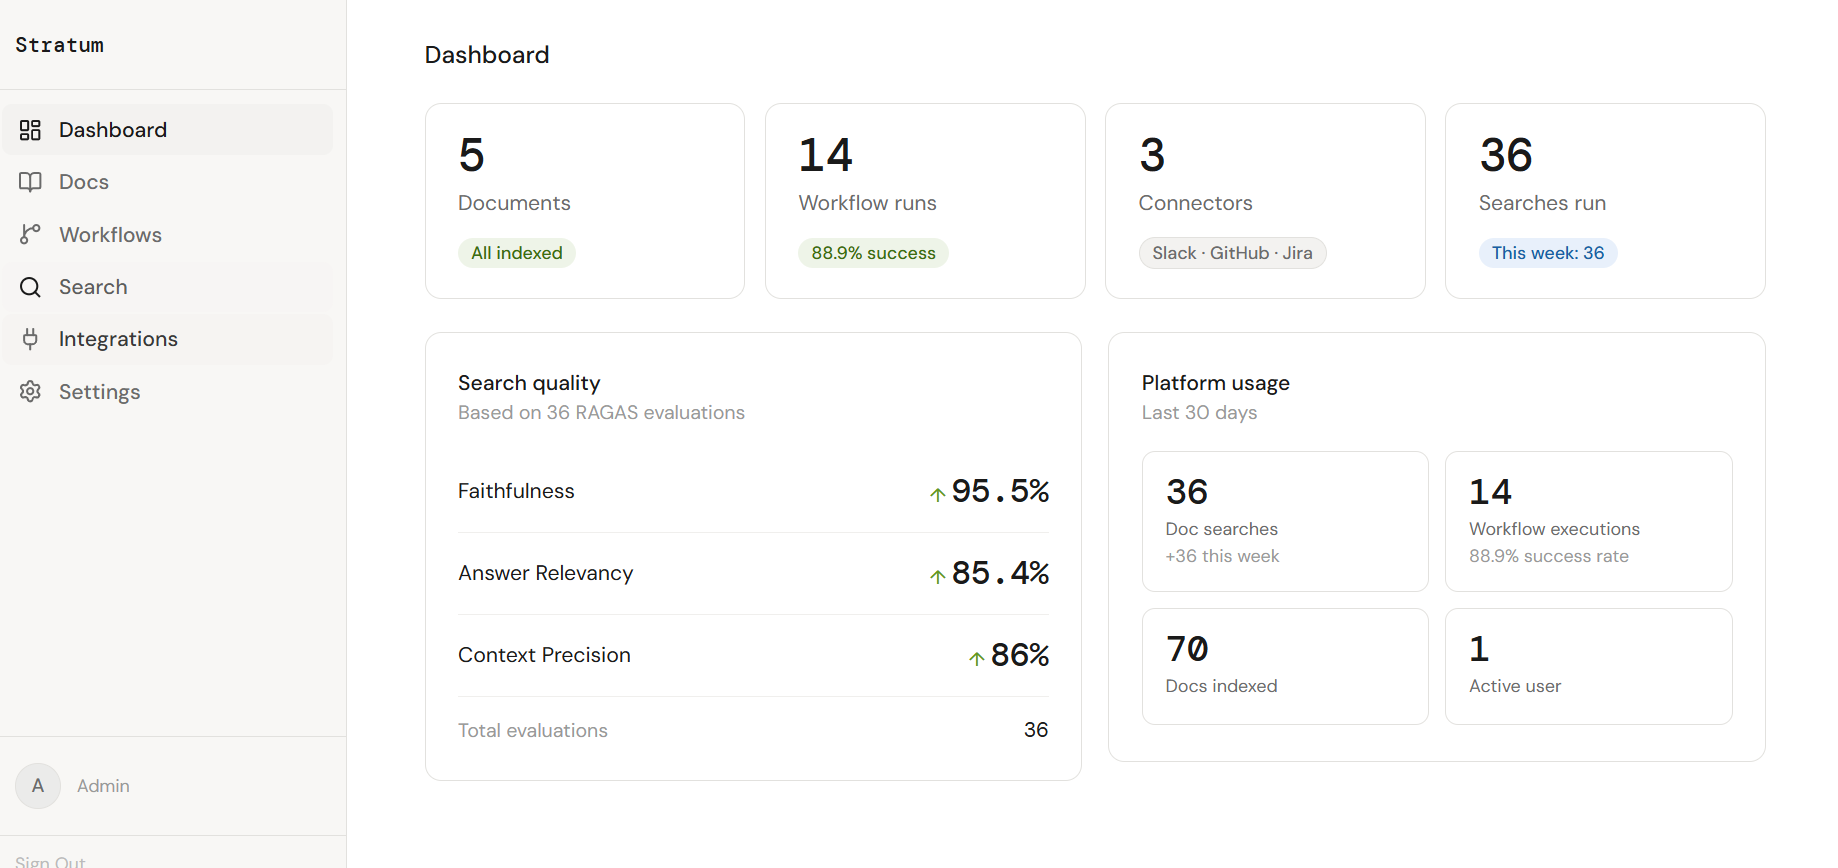
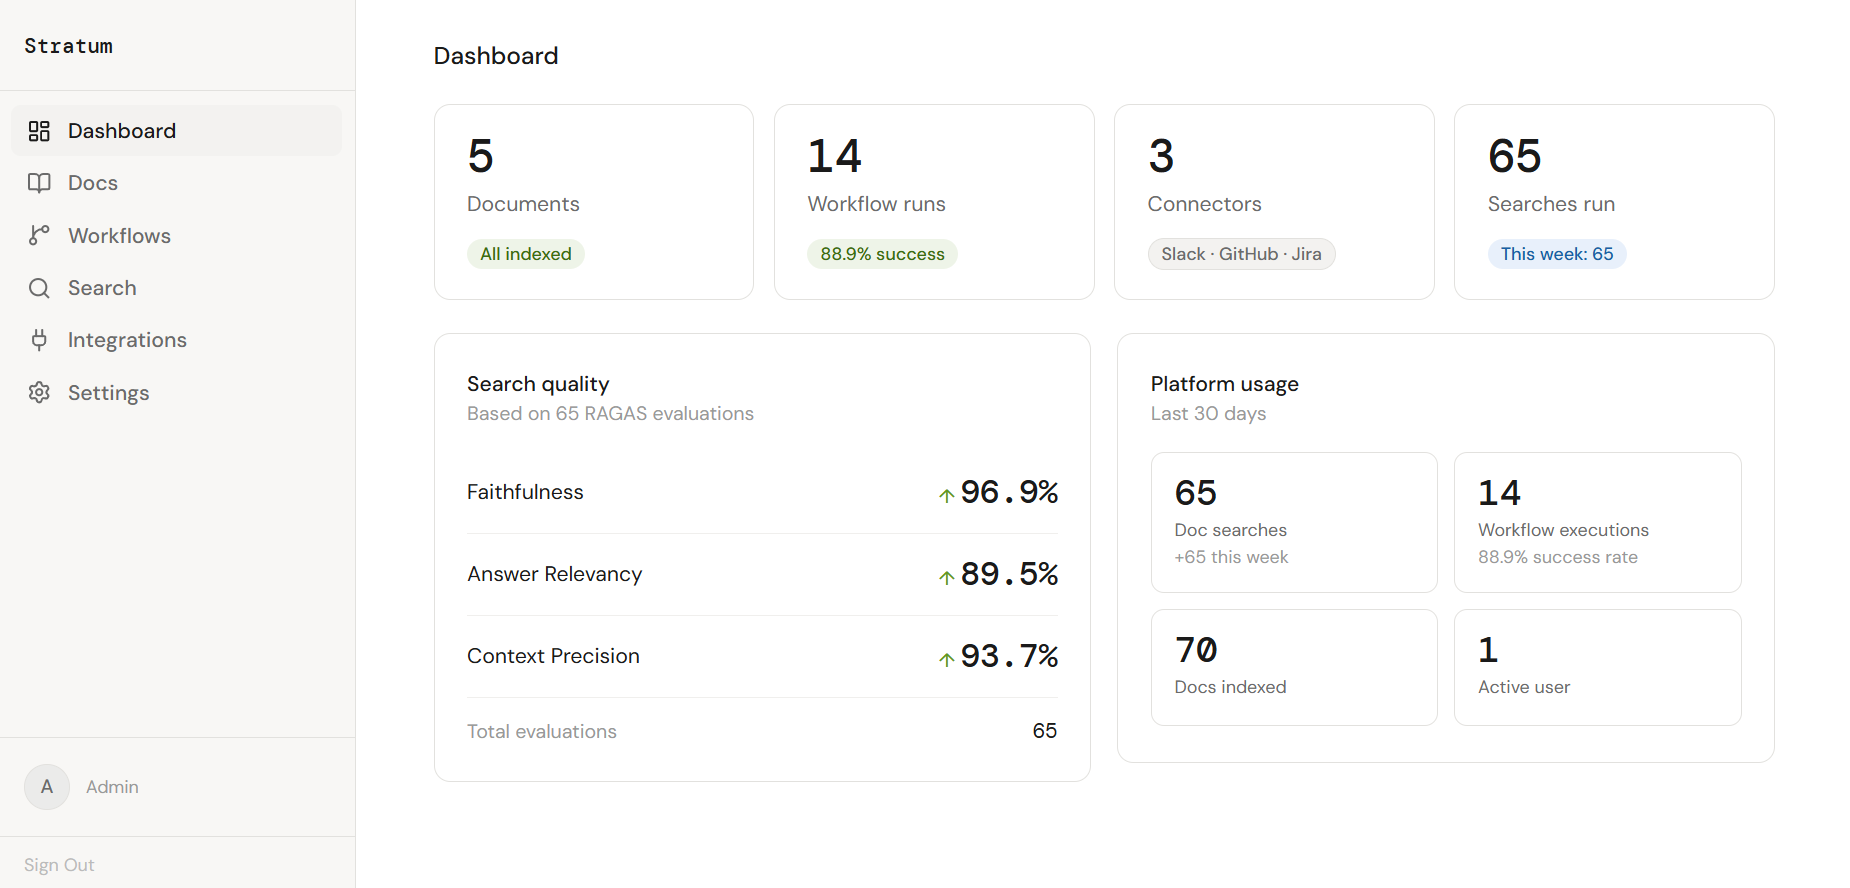
finalize README with screenshots and benchmarks

diff --git a/README.md b/README.md
@@ -1,12 +1,12 @@
 # Stratum
 
-Stratum is a platform for running AI on top of your organization's documents and data. You connect your sources (files, Slack, Jira, GitHub), and Stratum handles ingestion, search, and answer generation — with every response validated against the source material before it reaches the user.
-
-Each tenant's data is fully isolated. All search results are scored automatically using RAGAS so quality regressions are visible before they become user problems.
+Stratum is a multi-tenant AI knowledge platform that lets teams search across internal documentation and connected tools such as Slack, GitHub, and Jira using natural language. It ingests content, indexes it for hybrid retrieval, generates grounded answers, and continuously evaluates retrieval quality using RAGAS so retrieval regressions can be detected before they affect users.
 
 ---
 
 ## Screenshots
+
+
 
 <p align="center">
   <img src="docs/screenshots/dashboard.png" width="49%" />
@@ -23,7 +23,20 @@ Each tenant's data is fully isolated. All search results are scored automaticall
 
 ---
 
-## Features
+## Benchmarks
+
+Evaluated on 30 benchmark queries across five internal documents.
+
+```
+Overall RAGAS .......... 0.88
+Faithfulness ........... 1.00
+Answer Relevancy ....... 0.83
+Context Precision ...... 1.00
+```
+
+---
+
+## Highlights
 
 - Upload documents (PDF, DOCX, code) or connect Slack, Jira, and GitHub — ingestion runs in the background
 - Hybrid search combining dense vector similarity and BM25 keyword matching, fused with RRF
@@ -38,9 +51,19 @@ Each tenant's data is fully isolated. All search results are scored automaticall
 
 ---
 
+## Use Cases
+
+- Search internal engineering documentation
+- Ask questions across company knowledge bases
+- Build AI workflows on top of enterprise documents
+- Connect Slack, GitHub, and Jira as knowledge sources
+- Monitor retrieval quality with continuous RAGAS evaluation
+
+---
+
 ## Architecture
 
-Eight FastAPI services communicate through the gateway (synchronous HTTP) or Redis Streams (async events). No service imports another's code — the gateway is the only internet-facing entry point.
+Stratum follows a service-oriented architecture. The API gateway is the only public entry point; internal services communicate over HTTP for synchronous requests and Redis Streams for asynchronous events. Each service owns its data and can be scaled independently.
 
 ```
                           ┌─────────────────────────────────────────┐